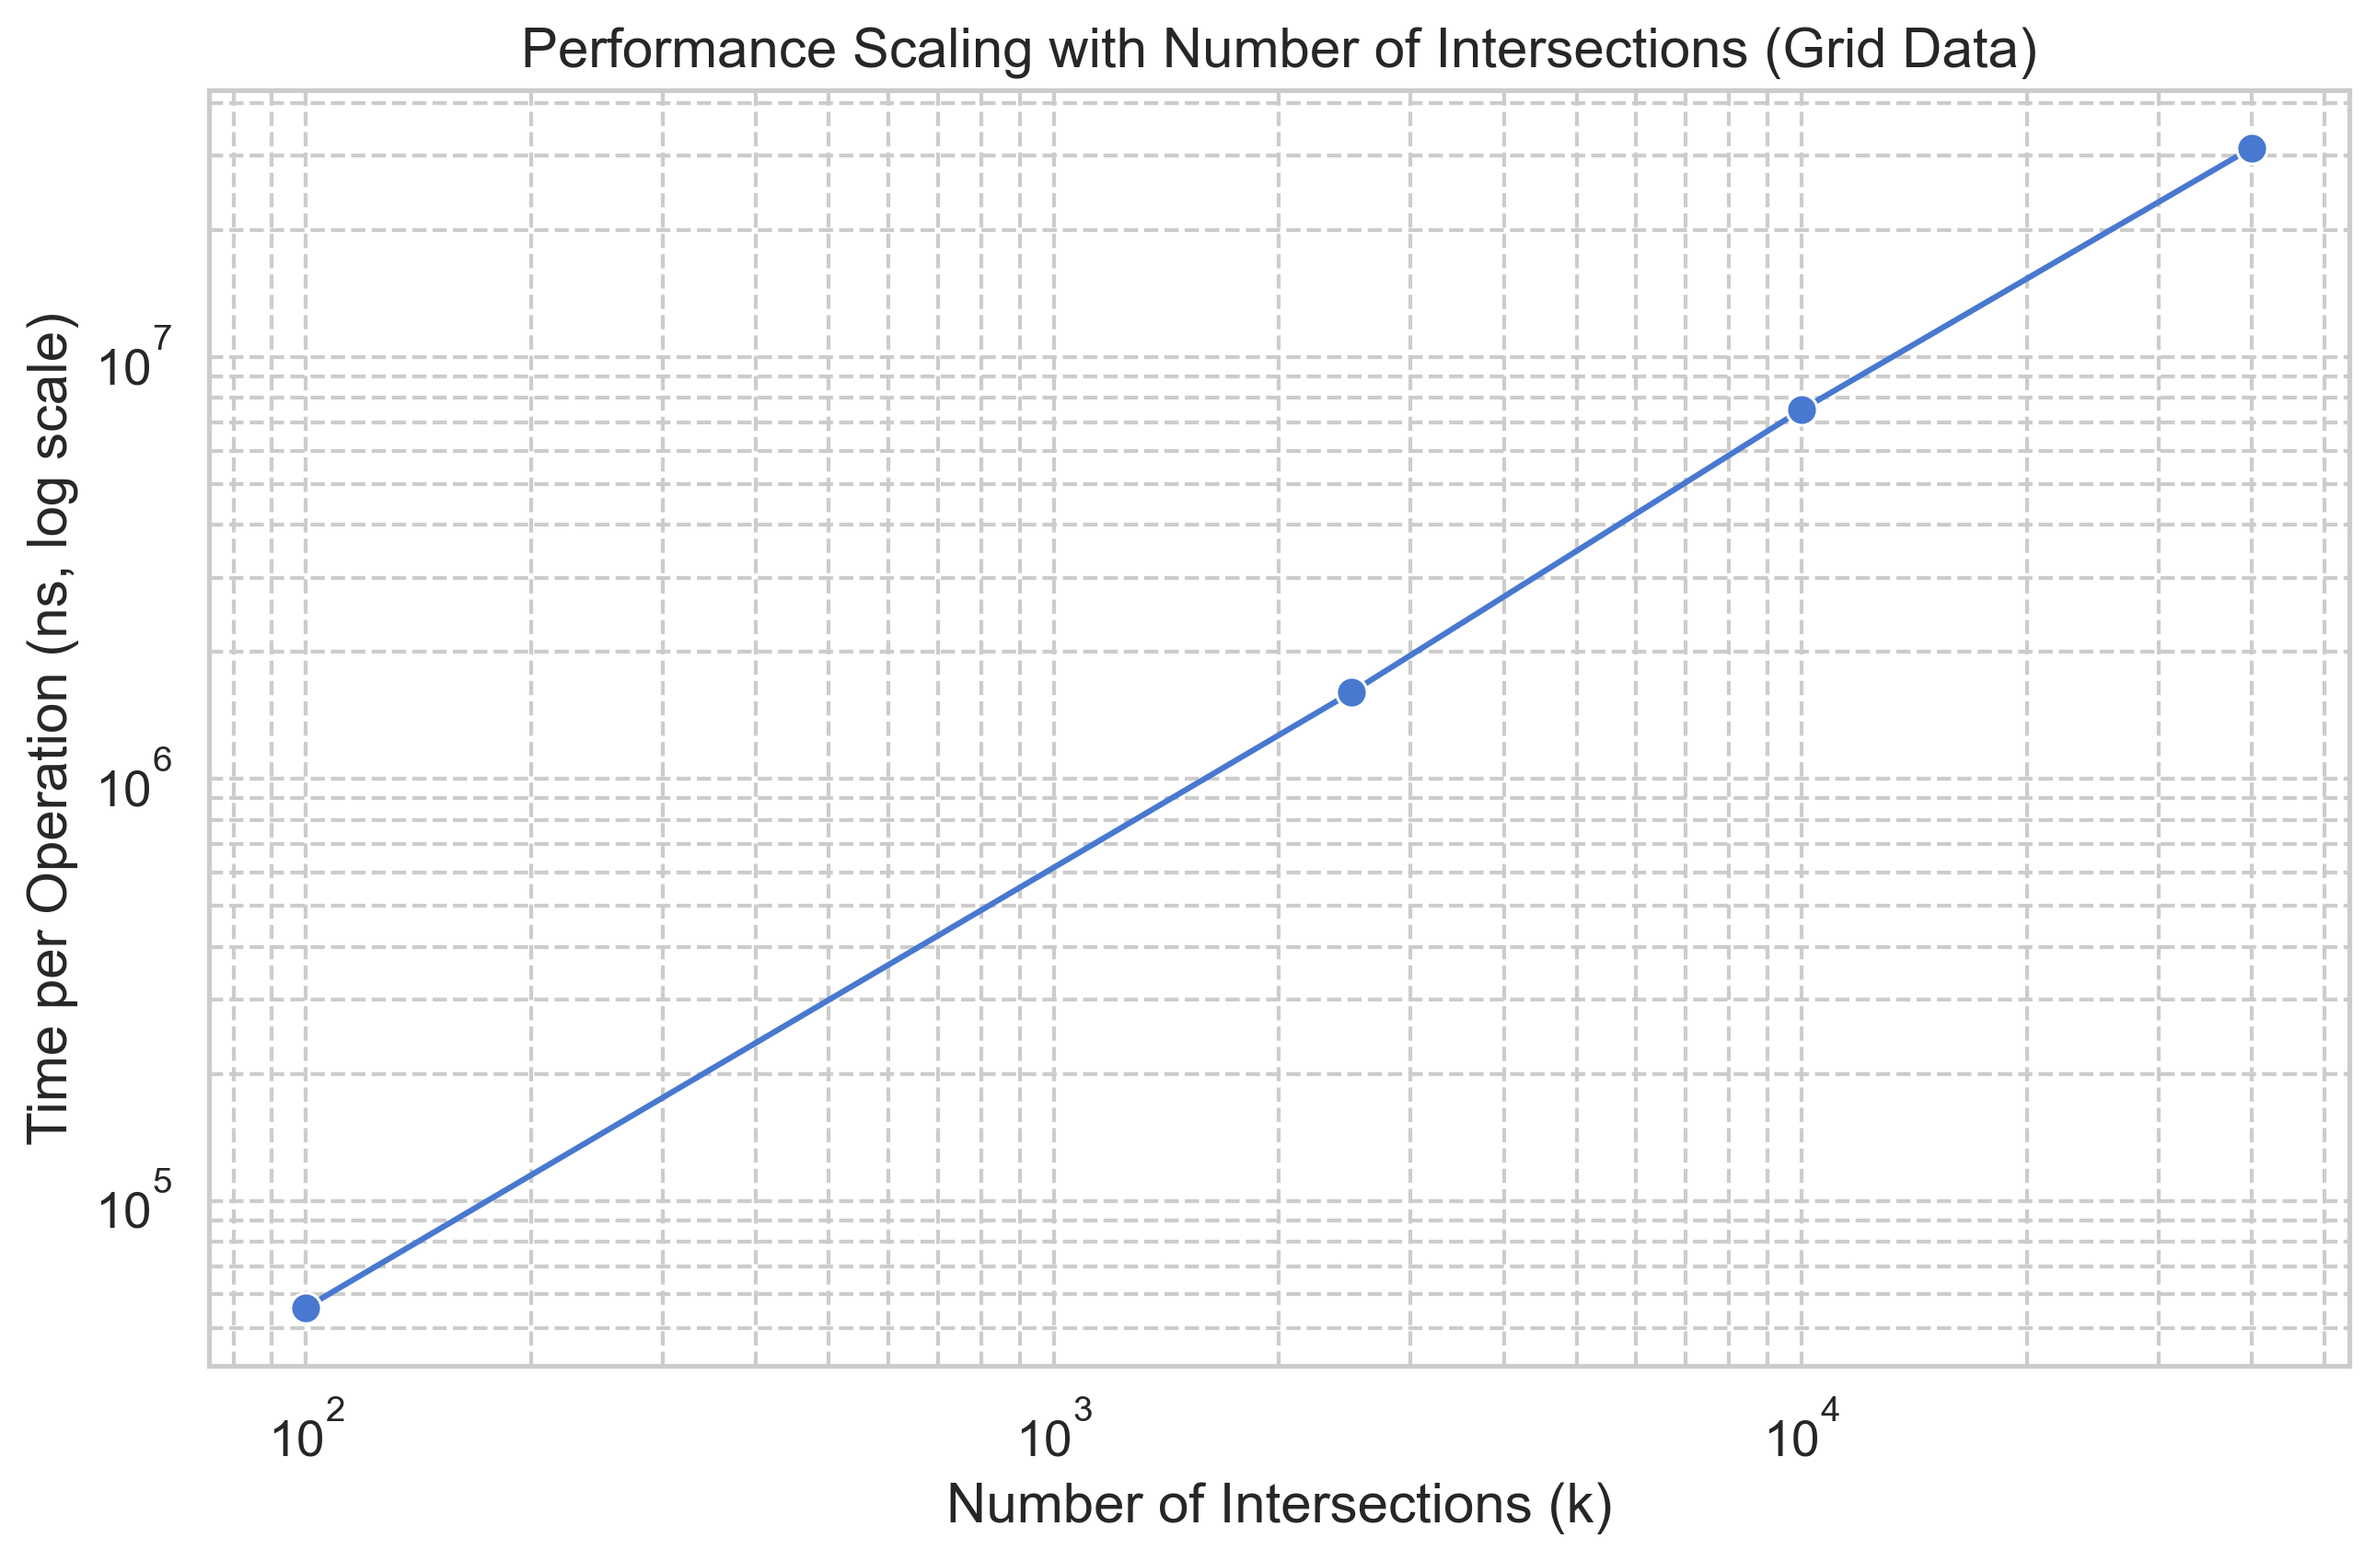
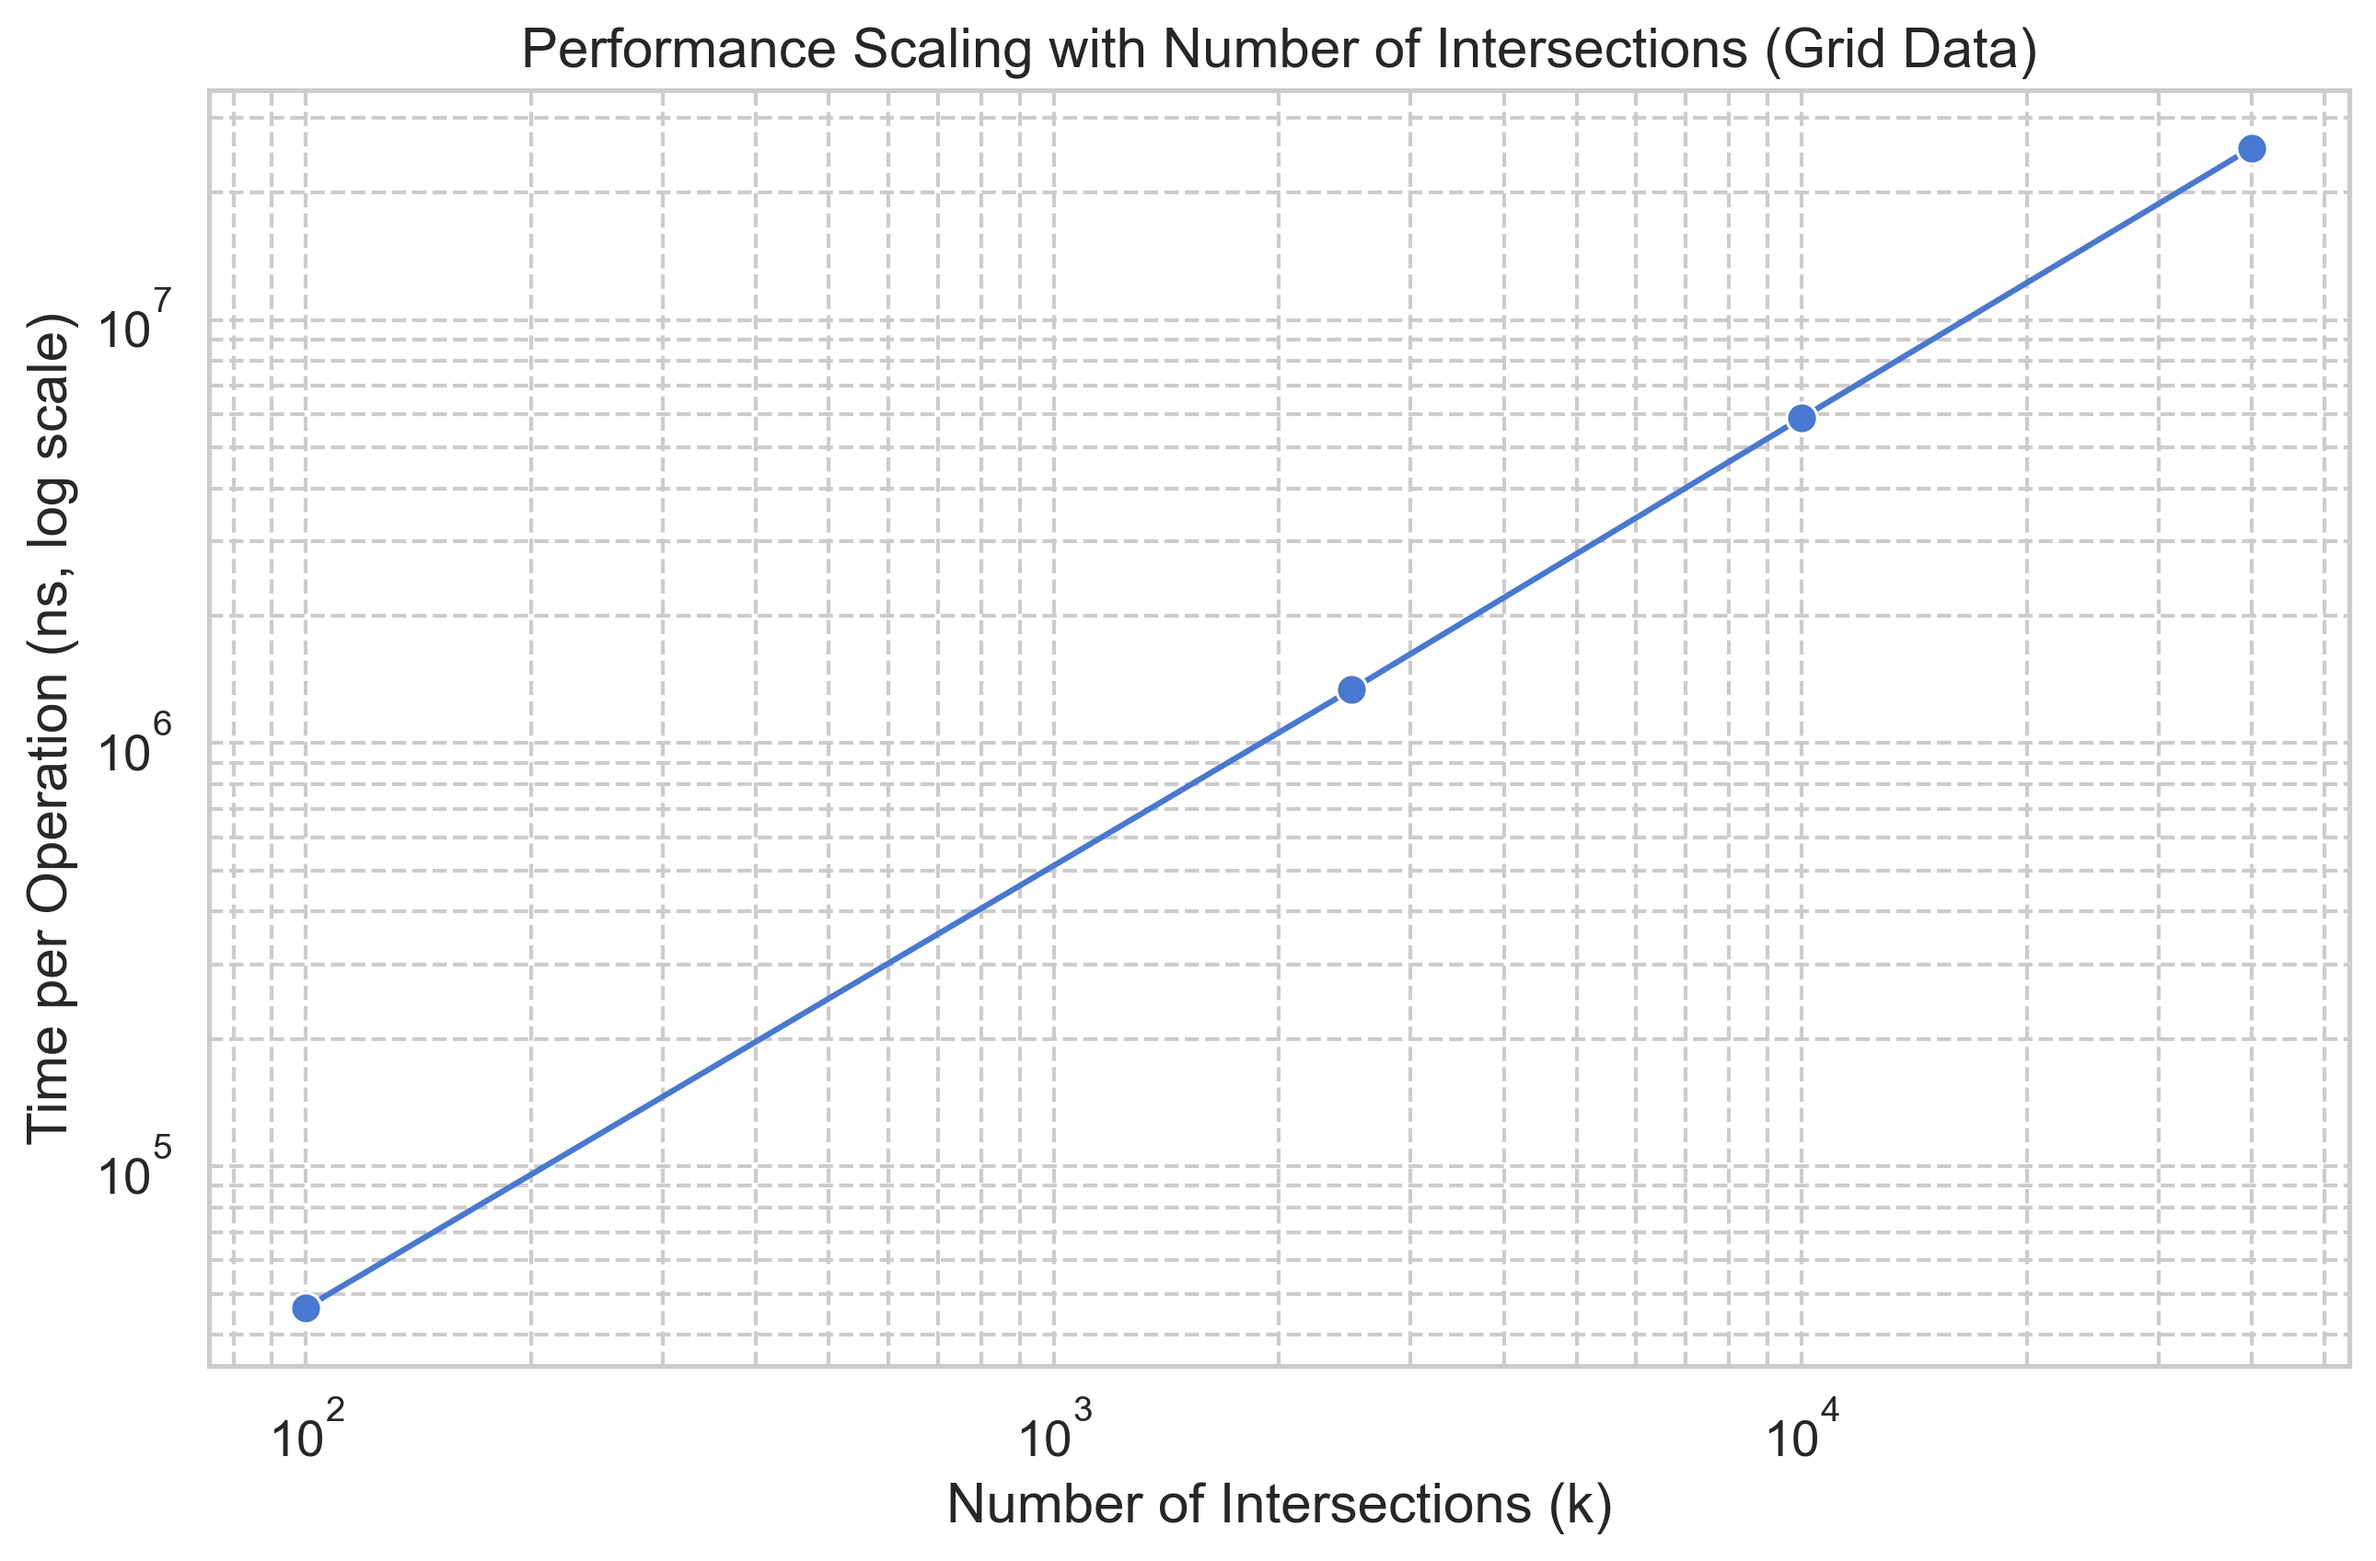
docs: update benchmark charts with final optimization results

diff --git a/create_charts.py b/create_charts.py
@@ -6,16 +6,16 @@ import pandas as pd
 sns.set_theme(style="whitegrid", palette="muted", font_scale=1.2)
 
 # --- Benchmark Data ---
-# This data is taken directly from the benchmark results.
+# This data is taken from the final, hyper-optimized benchmark run.
 random_data = {
     "N": [10, 100, 1000, 10000],
-    "Time/Op (ns)": [4372, 115627, 1851251, 29025479],
+    "Time/Op (ns)": [5113, 84862, 1623540, 26450798],
 }
 
 grid_data = {
     "Segments": [20, 100, 200, 400],
     "Intersections": [100, 2500, 10000, 40000],
-    "Time/Op (ns)": [55818, 1604035, 7506986, 31361110],
+    "Time/Op (ns)": [46431, 1337919, 5866263, 25497388],
 }
 
 # Convert the data into pandas DataFrames for easy plotting.
